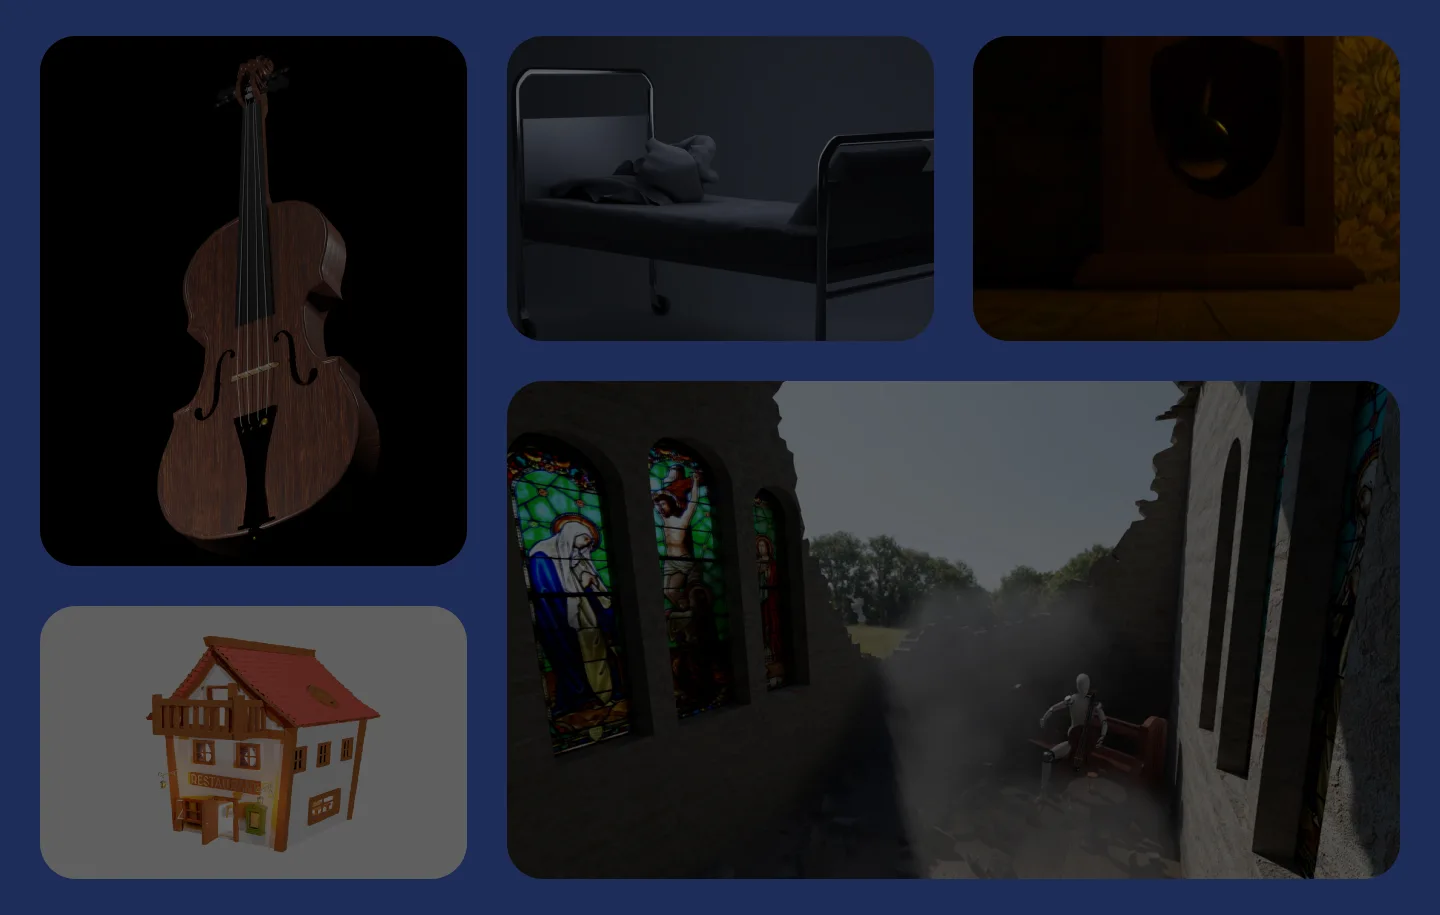
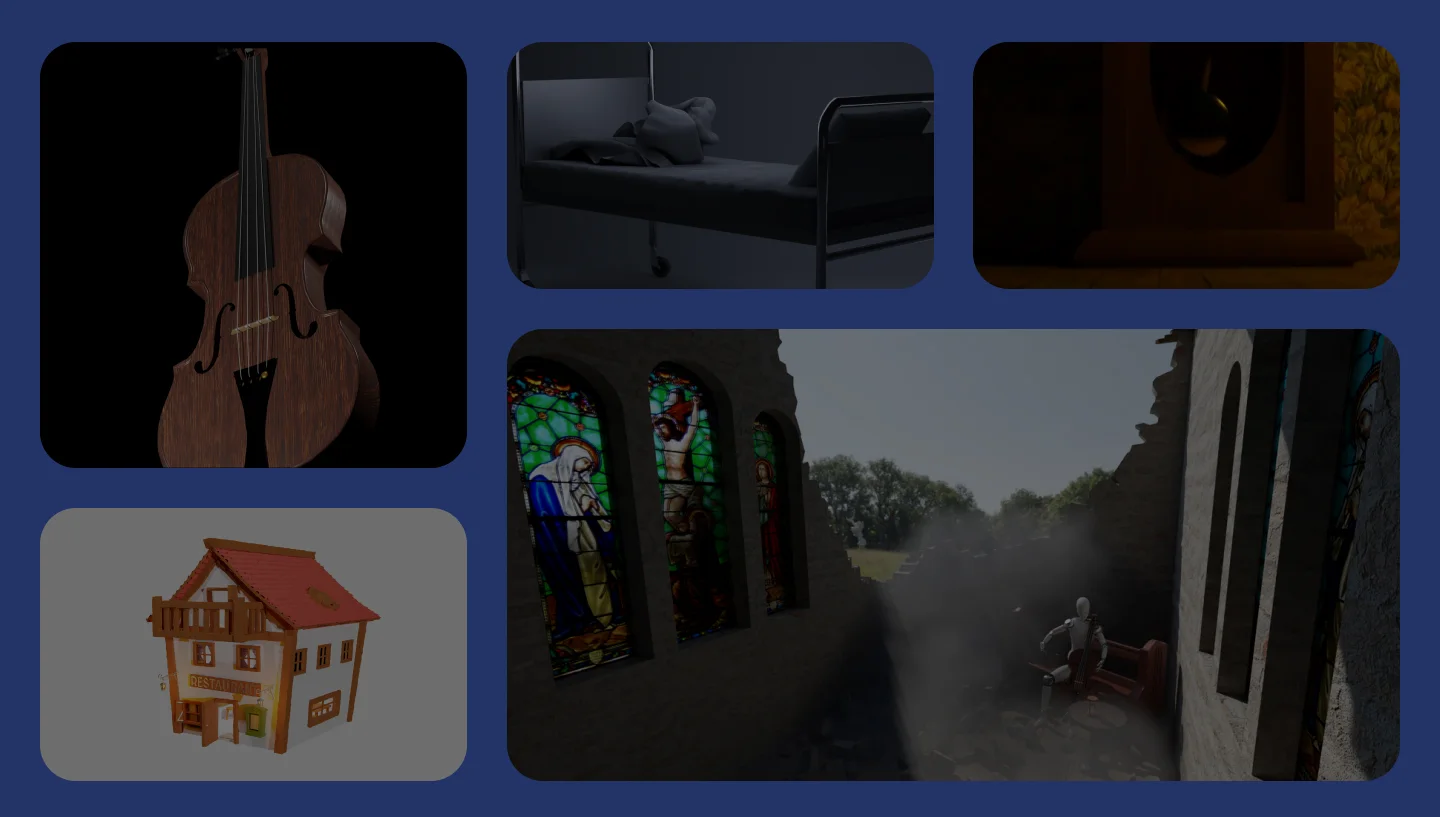
aside Vf

diff --git a/css/style.css b/css/style.css
@@ -768,17 +768,38 @@ button:hover {
 .wordpress {
   display: none;
 }
-aside {
-  height: 500px;
+.bg-aside {
+  font-weight: 500;
+  font-family: "Inter", sans-serif;
+  color: var(--white);
+  font-size: var(--text-regular);
+  text-align: center;
+  height: 50rem;
   background-image: url(../images/aside/3D_creations.webp);
   background-attachment: fixed;
-  background-size: cover;
-}
-.bg-aside {
-  background-image: url(../images/aside/3D_creations.jpg);
   background-position: center bottom;
   background-repeat: no-repeat;
-  height: 50rem; /* Ajustez la hauteur en conséquence pour afficher l'image complète */
+  background-size: cover;
+}
+aside{
+  display: flex;
+  height: 100%;
+  flex-direction: column;
+  justify-content: center;
+}
+.bg-aside p {
+  margin: 3rem 0;
+}
+.bg-aside h2{
+  font-weight: 700;
+}
+.aside-link{
+  color: var(--white);
+  padding: 1rem 2rem;
+  margin-top: 3rem;
+  border-radius: 10px;
+  font-size: 2rem;
+  border: 2px solid var(--white);
 }
 .discuss{
   height: 100vh;

diff --git a/index.html b/index.html
@@ -204,11 +204,15 @@
     </main>
     <div class="bg-aside">
       <aside>
-
+        <div class="div">
+          <h2>Découvrez en plus</h2>
+          <p>En ayant fait pendant plusieurs années de la 3D, j’envisage d’en apprendre plus sur ce domaine pour le web et ses usages</p>
+          <a class="aside-link" href="#" target="_blank">Mes créations 3D</a>
+        </div>
       </aside>
     </div>
     <section class="discuss">
-
+      
     </section>
     <footer>
       <p>© Simon Daguet-Kargl - 2023</p>
